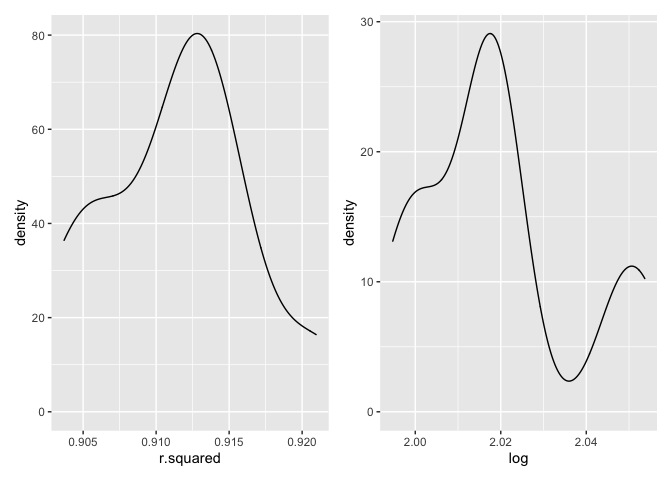
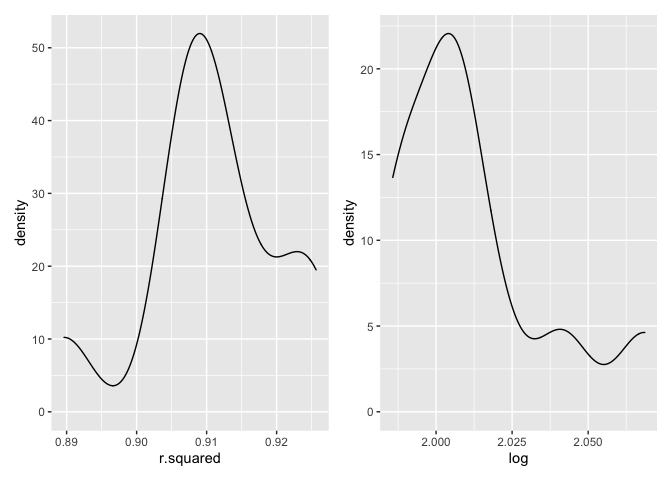
final commit

diff --git a/p8105_hw6_des2190-.md b/p8105_hw6_des2190-.md
@@ -2,7 +2,7 @@ Homework 6
 ================
 Diana Sanchez
 
-This is my solution to HW1.
+This is my solution to HW6.
 
 ``` r
 library(tidyverse)
@@ -22,30 +22,24 @@ library(tidyverse)
 ``` r
 library(readxl)
 library(patchwork)
+library(modelr)
+library(mgcv)
 ```
+
+    ## Loading required package: nlme
+
+    ## 
+    ## Attaching package: 'nlme'
+
+    ## The following object is masked from 'package:dplyr':
+    ## 
+    ##     collapse
+
+    ## This is mgcv 1.8-33. For overview type 'help("mgcv-package")'.
 
 ## Problem 2
 
-Read the birthweight data set.
-
-Propose a regression model for birthweight. This model may be based on a
-hypothesized structure for the factors that underly birthweight, on a
-data-driven model-building process, or a combination of the two.
-Describe your modeling process and show a plot of model residuals
-against fitted values – use add\_predictions and add\_residuals in
-making this plot.
-
-Compare your model to two others:
-
-One using length at birth and gestational age as predictors (main
-effects only) One using head circumference, length, sex, and all
-interactions (including the three-way interaction) between these Make
-this comparison in terms of the cross-validated prediction error; use
-crossv\_mc and functions in purrr as appropriate.
-
-Note that although we expect your model to be reasonable, model building
-itself is not a main idea of the course and we don’t necessarily expect
-your model to be “optimal”.
+### Loading and cleaning dataset
 
 ``` r
 bw_df =
@@ -58,13 +52,75 @@ bw_df =
     mrace = as.factor(mrace),
     malform = as.factor(malform),
     mrace = as.factor(mrace))
+```
 
-model_1 = lm(bwt ~ smoken + malform, data = bw_df)
+### Modeling process and predictions vs residuals
 
+``` r
+model_1 = lm(bwt ~ smoken + gaweeks + wtgain, data = bw_df)
+
+train = bw_df %>% 
+  add_predictions(model_1) %>% 
+  add_residuals(model_1) %>% 
+  ggplot(aes(x = resid, y = pred)) + 
+  geom_point() + ggtitle("Plot of model residuals against fitted values")
+
+train
+```
+
+![](p8105_hw6_des2190-_files/figure-gfm/unnamed-chunk-3-1.png)<!-- -->
+
+I used hypothesized a model for birthweight based on previous knowledge.
+The variables that stood out to me included the average number of
+cigarettes smoked per day during pregnancy (which usually correlates
+with a lower birthweight), gestional age in weeks (where we would expect
+a lower weight for a lower age), and mother’s weight gain during
+pregnancy (where we would expect a larger birthweight if the mom gains
+more weight).
+
+### Comparing models
+
+``` r
 model_2 = lm(bwt ~ blength + gaweeks, data = bw_df)
 
 model_3 = lm(bwt ~ bhead + blength + babysex + bhead * blength + bhead * babysex + blength * babysex + bhead * blength * babysex , data = bw_df)
+
+bw_df2 = 
+  crossv_mc(bw_df, 4352) %>% 
+  mutate(
+    train = map(train, as_tibble),
+    test = map(test, as_tibble)
+  )
+
+bw_df3 = 
+  bw_df2 %>% 
+  mutate(
+    model_1 = map(.x = train, ~lm(bwt ~ smoken + gaweeks + wtgain, data = bw_df)),
+    model_2 = map(.x = train, ~lm(bwt ~ blength + gaweeks, data = bw_df)),
+    model_3 = map(.x = train, ~lm(bwt ~ bhead + blength + babysex + bhead * blength + bhead * babysex + blength * babysex + bhead * blength * babysex , data = bw_df)
+  )) %>% 
+  mutate(
+    rmse_1 = map2_dbl(.x = model_1, .y = test, ~rmse(model = .x, data = .y)),
+    rmse_2 = map2_dbl(.x = model_2, .y = test, ~rmse(model = .x, data = .y)),
+    rmse_3 = map2_dbl(.x = model_3, .y = test, ~rmse(model = .x, data = .y))
+  )
+
+bw_df3 %>% 
+  select(starts_with("rmse")) %>% 
+  pivot_longer(
+    everything(),
+    names_to = "model",
+    values_to = "rmse",
+    names_prefix = "rmse_"
+  ) %>% 
+  ggplot(aes(x = model, y = rmse)) +
+  geom_violin()
 ```
+
+![](p8105_hw6_des2190-_files/figure-gfm/unnamed-chunk-4-1.png)<!-- -->
+
+From this violin graph, we can see that the best model is model 3, which
+includes bhead, blength, babysex and all interaction terms.
 
 ## Problem 3
 
@@ -82,7 +138,7 @@ weather_df =
   select(name, id, everything())
 
 weath_3 = weather_df %>% 
-  modelr::bootstrap(n = 10) %>% 
+  modelr::bootstrap(n = 5000) %>% 
   mutate(
     models = map(strap, ~ lm(tmax ~ tmin, data = .x)),
     results = map(models, broom::glance),
@@ -102,7 +158,7 @@ weath_3 = weather_df %>%
   log = log((beta_0 * beta_1)))
 ```
 
-### Distribution plots for r̂2 and log(β̂0∗β
+### Distribution plots for r̂2 and log(β̂0∗β)
 
 ``` r
 weath_graph1 =
@@ -114,9 +170,10 @@ weath_graph2 =
 weath_graph1 + weath_graph2
 ```
 
-![](p8105_hw6_des2190-_files/figure-gfm/unnamed-chunk-4-1.png)<!-- -->
+![](p8105_hw6_des2190-_files/figure-gfm/unnamed-chunk-6-1.png)<!-- -->
 
-EXPLAIN PLOTS\!\!\!\!\!
+These plots are similar in shape in that they have an overall bell-curve
+shape.
 
 ### 95% confidence interval for r̂2 and log(β̂0∗β̂)
 
@@ -134,8 +191,8 @@ weath_r %>%
 
 |       |         x |
 | :---- | --------: |
-| 2.5%  | 0.8814370 |
-| 97.5% | 0.9286281 |
+| 2.5%  | 0.8945667 |
+| 97.5% | 0.9272844 |
 
 95% CI for r̂
 
@@ -148,7 +205,7 @@ weath_log %>%
 
 |       |        x |
 | :---- | -------: |
-| 2.5%  | 1.970002 |
-| 97.5% | 2.054817 |
+| 2.5%  | 1.965888 |
+| 97.5% | 2.058884 |
 
 95% CI for log(β̂0∗β̂)
